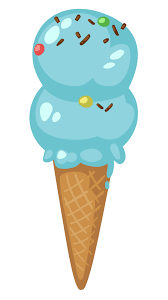
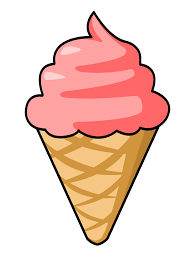
4

diff --git a/DA1/js/main.js b/DA1/js/main.js
@@ -16,7 +16,7 @@ window.onload = function() {
         // Load an image and call it 'logo'.
 	game.load.image('Guy', 'assets/Familyguy.jpg');
         game.load.image( 'logo', 'assets/Stewie.png' );
-	game.load.image( 'logo2', 'assets/Roger.jpg' );
+	game.load.image( 'logo2', 'assets/ice.png' );
 	
     }
     
@@ -24,10 +24,11 @@ window.onload = function() {
     
     function create() {
         // Create a sprite at the center of the screen using the 'logo' image.
+	game.physics.startSystem(Phaser.Physics.ARCADE);
 
 	var s = game.add.sprite(game.world.centerX, game.world.centerY,'Guy');
         bouncy = game.add.sprite( game.world.centerX, game.world.centerY, 'logo' );
-	var image = game.add.sprite(10, 10, 'logo2');
+	var image = game.add.sprite(0, 0,'logo2');
 
         // Anchor the sprite at its center, as opposed to its top-left corner.
         // so it will be truly centered.
@@ -46,10 +47,11 @@ window.onload = function() {
         var text = game.add.text( game.world.centerX, 15, " ", style );
         
 	text.anchor.setTo( 0.5, 0.0 );
-	game.physics.enable(image, Phaser.Physics.ARCADE);
 
-    
-	image.body.velocity.x=10;
+	image.body.velocity.setTo(200,200);
+	image.body.collideWorldBounds = true;
+	image.body.bounce.set(1);
+
     }
     
     function update() {
